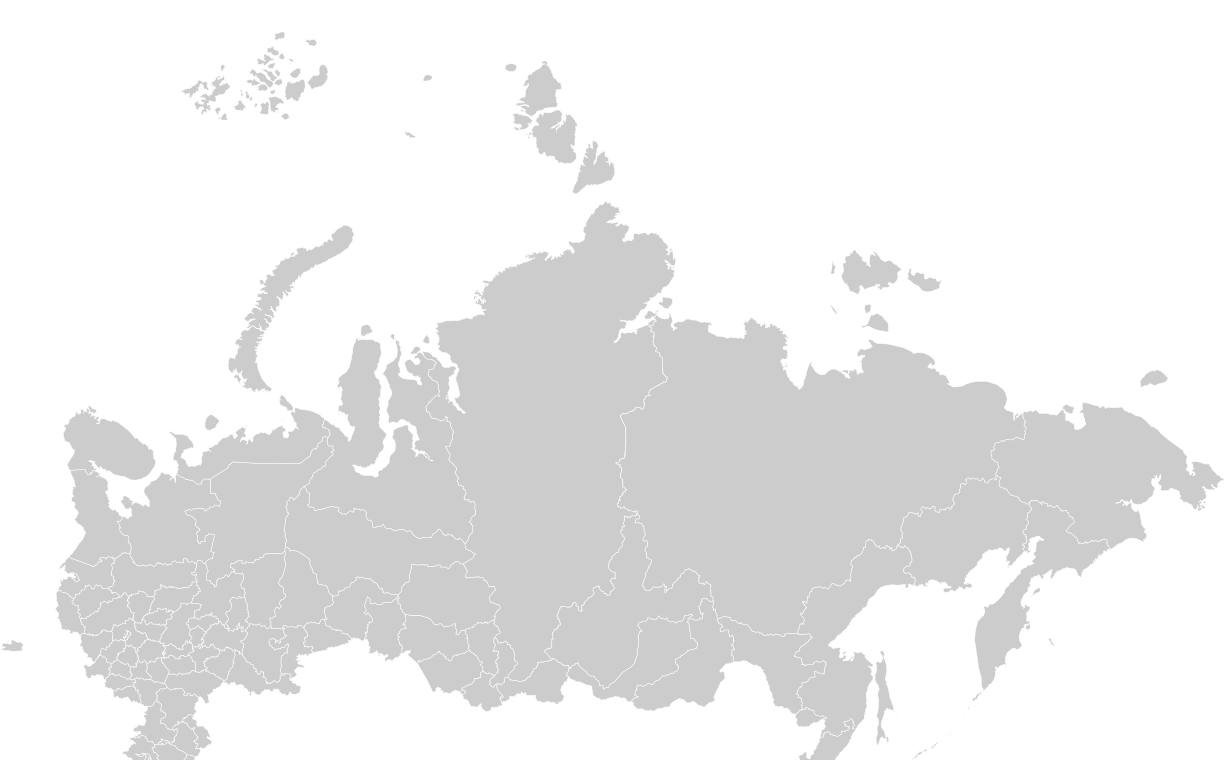
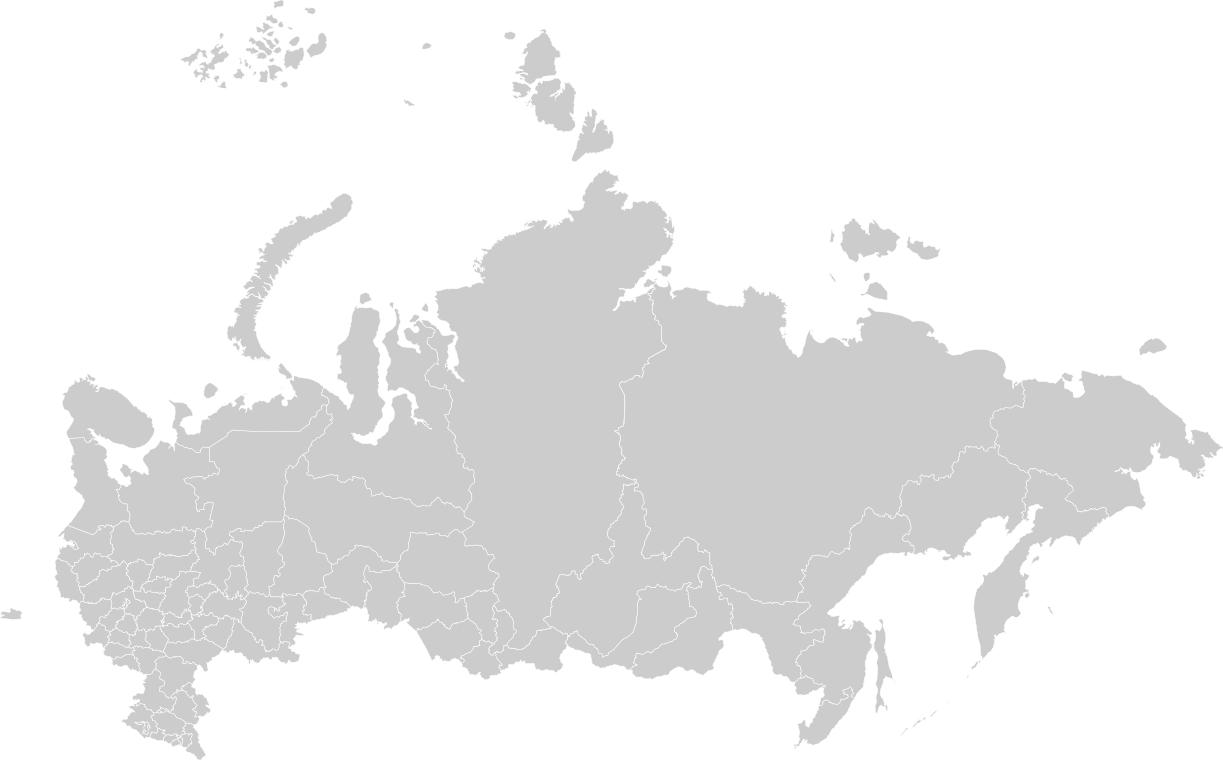
.

diff --git a/src/js/experiments/particles/path-trailing/index.ts b/src/js/experiments/particles/path-trailing/index.ts
@@ -3,6 +3,7 @@ import { OrbitControls } from 'three/examples/jsm/controls/OrbitControls';
 import { baseExperiment } from '../../base';
 import vertexShader from './shaders/vertex.glsl';
 import fragmentShader from './shaders/fragment.glsl';
+import { disposeMesh } from '../../../utils';
 import texture from './russia.png';
 
 export const createParticlesPathTrailing = baseExperiment(
@@ -14,7 +15,7 @@ export const createParticlesPathTrailing = baseExperiment(
         renderer.setPixelRatio(Math.min(2, window.devicePixelRatio));
         renderer.setSize(sizes.width, sizes.height);
 
-        const camera = new THREE.PerspectiveCamera(45, sizes.width / sizes.height, 0.1, 1000);
+        const camera = new THREE.PerspectiveCamera(45, sizes.width / sizes.height, 0.1, 100);
         camera.position.z = 10;
 
         const scene = new THREE.Scene();
@@ -26,8 +27,9 @@ export const createParticlesPathTrailing = baseExperiment(
             throw new Error('svg not found');
         }
 
+        const svgBBox = svg.getBBox();
+        svg.style.display = 'none';
         const svgTexture = new THREE.TextureLoader().load(texture);
-        // svgTexture.flipY = false;
 
         const pathsData = Array.from(svg.querySelectorAll<SVGPathElement>('.land')).map((path) => {
             const pathLength = path.getTotalLength();
@@ -38,8 +40,8 @@ export const createParticlesPathTrailing = baseExperiment(
                 const pointAt = (pathLength / pointsAmount) * i;
                 const point = path.getPointAtLength(pointAt);
                 const normalizedPoint = {
-                    x: (point.x - 500) * 0.01 + Math.random() * 0.03,
-                    y: (point.y - 400) * 0.01 + Math.random() * 0.03,
+                    x: (point.x - svgBBox.width / 2) * 0.01 + Math.random() * 0.02,
+                    y: (point.y - svgBBox.height / 2) * 0.01 + Math.random() * 0.02,
                     z: 0,
                 };
                 points.push(new THREE.Vector3(normalizedPoint.x, normalizedPoint.y, normalizedPoint.z));
@@ -48,7 +50,8 @@ export const createParticlesPathTrailing = baseExperiment(
             return {
                 length: pathLength,
                 points,
-                pointsToRender: Math.max(10, Math.floor(pointsAmount * 0.25)),
+                pointsToRender: Math.max(10, Math.floor(pointsAmount * 0.5)),
+                // pointsToRender: Math.max(10, Math.floor(pointsAmount * 0.9)),
                 currentPosition: 0,
                 speed: 1,
             };
@@ -84,16 +87,19 @@ export const createParticlesPathTrailing = baseExperiment(
         });
 
         const particles = new THREE.Points(particlesGeometry, particlesMaterial);
+        particles.position.y = 0.33;
         scene.add(particles);
 
         const plane = new THREE.Mesh(
-            new THREE.PlaneBufferGeometry(10, 8, 1, 1),
+            new THREE.PlaneBufferGeometry(svgBBox.width * 0.01, svgBBox.height * 0.01, 1, 1),
             new THREE.MeshBasicMaterial({
-                color: 0x0000ff,
+                color: 0x0004f,
                 map: svgTexture,
             }),
         );
         scene.add(plane);
+
+        const dummyMat4 = new THREE.Matrix4();
 
         const controls = new OrbitControls(camera, canvas);
         controls.enableDamping = true;
@@ -117,6 +123,7 @@ export const createParticlesPathTrailing = baseExperiment(
             }
 
             particlesGeometry.attributes.position.array = positions;
+            particlesGeometry.applyMatrix4(dummyMat4.makeScale(1, -1, 1));
             particlesGeometry.attributes.opacity.array = opacity;
             particlesGeometry.attributes.position.needsUpdate = true;
             particlesGeometry.attributes.opacity.needsUpdate = true;
@@ -132,6 +139,8 @@ export const createParticlesPathTrailing = baseExperiment(
 
         function destroy() {
             cancelAnimationFrame(rAF);
+            scene.remove(particles);
+            disposeMesh(particles);
             renderer.dispose();
         }
 
@@ -143,6 +152,8 @@ export const createParticlesPathTrailing = baseExperiment(
             renderer.setPixelRatio(Math.min(2, window.devicePixelRatio));
             renderer.setSize(sizes.width, sizes.height);
         });
+
+        window.dispatchEvent(new Event('resize'));
 
         module.hot?.addDisposeHandler(destroy);
     },

diff --git a/src/js/utils/index.ts b/src/js/utils/index.ts
@@ -1,0 +1,40 @@
+import { BackSide, FrontSide, Group, Material, Mesh, Points } from 'three';
+
+export function disposeMesh(mesh: Mesh | Points) {
+    mesh.geometry?.dispose();
+    if (mesh.material) {
+        if (mesh.material instanceof Array) {
+            for (let i = 0; i < mesh.material.length; ++i) {
+                mesh.material[i].dispose();
+            }
+        } else {
+            mesh.material.dispose();
+        }
+    }
+}
+
+export function separateCullingPass(mesh: Mesh): Group {
+    const group = new Group();
+
+    [BackSide, FrontSide].forEach((side, i) => {
+        const newMesh = mesh.clone();
+        newMesh.name = `${newMesh.name}__clone${i + 1}`;
+
+        if (mesh.material instanceof Material) {
+            const material = mesh.material.clone();
+            newMesh.material = material;
+            material.transparent = true;
+            material.side = side;
+        }
+
+        group.add(newMesh);
+
+        if (mesh.parent) {
+            mesh.parent.add(group);
+            mesh.parent.remove(mesh);
+            disposeMesh(mesh);
+        }
+    });
+
+    return group;
+}

diff --git a/src/html_templates/particles/path-trailing.html b/src/html_templates/particles/path-trailing.html
@@ -10,7 +10,7 @@ og_image:
 
 <canvas class="canvas js-canvas" data-experiment="particles-path-trailing"></canvas>
 
-<svg xmlns="http://www.w3.org/2000/svg" class="russia-svg js-russia-svg" width="1000" height="800" viewBox="0 0 1000 800">
+<svg xmlns="http://www.w3.org/2000/svg" class="russia-svg js-russia-svg" width="1222.9105224609375" height="759.929931640625" viewBox="1.069997787475586 31.899953842163086 1222.9105224609375 759.929931640625">
   <defs>
     <style>
       .land{fill:#ccc;fill-opacity:1;stroke:#fff;stroke-opacity:1;stroke-width:.5}

diff --git a/src/css/pages/_index.scss b/src/css/pages/_index.scss
@@ -1,8 +1,6 @@
 .russia-svg {
-    position: fixed;
-    top: 0;
-    left: 0;
     width: 100%;
-    height: 100%;
-    display: none;
+    height: auto;
+    max-height: 100vh;
+    visibility: hidden;
 }
